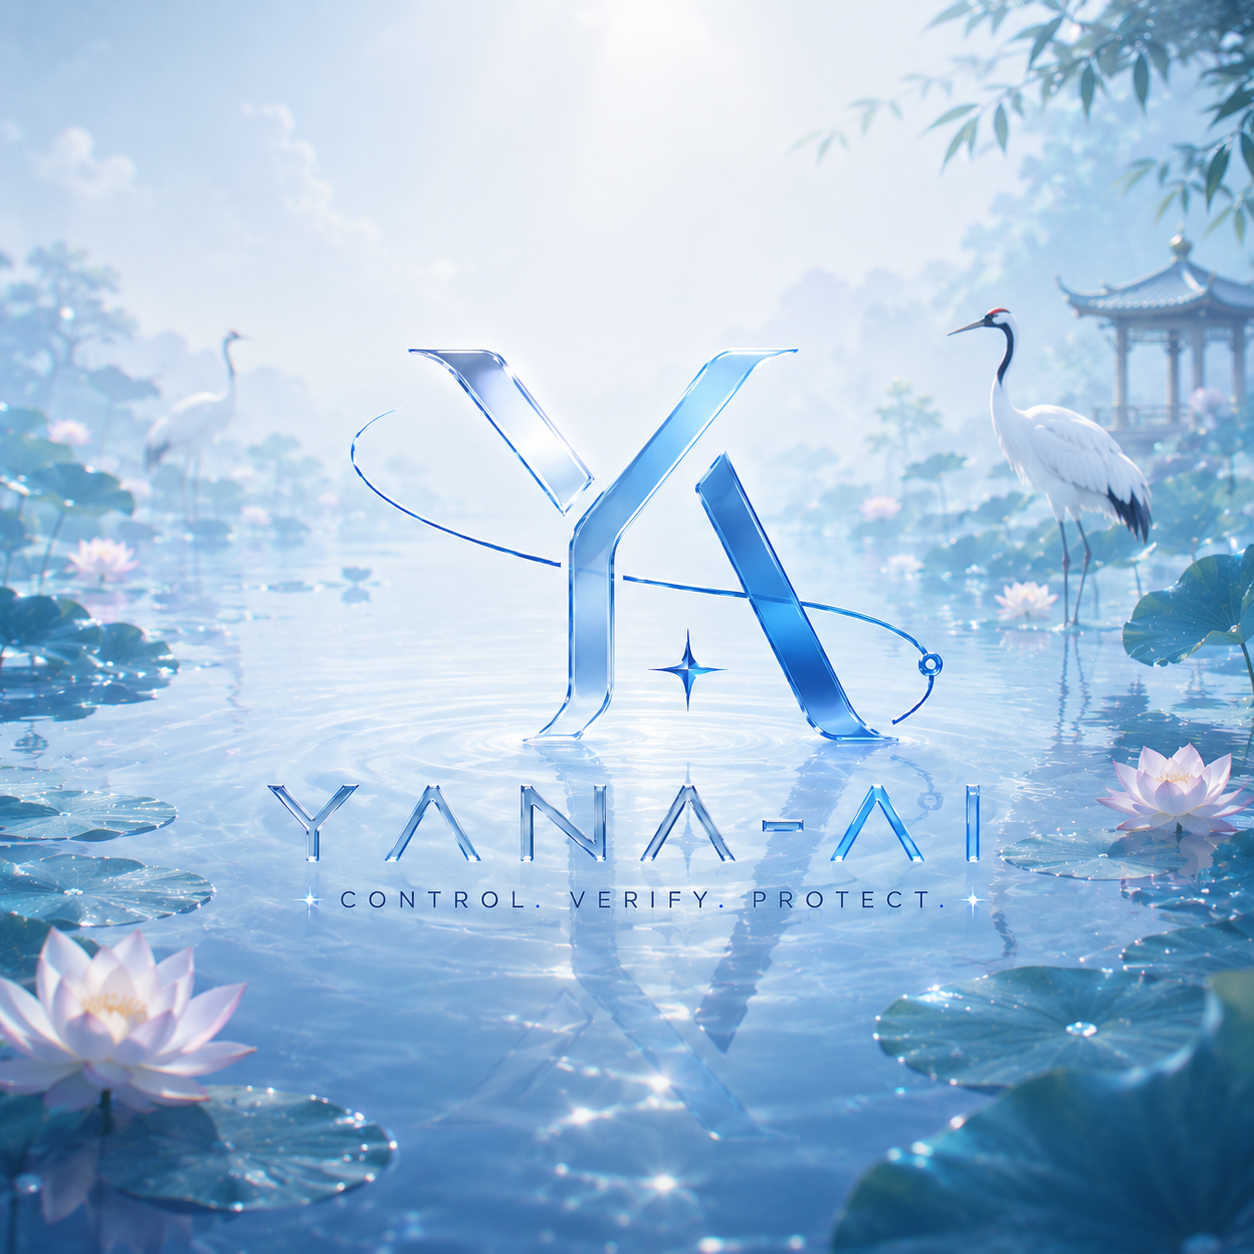
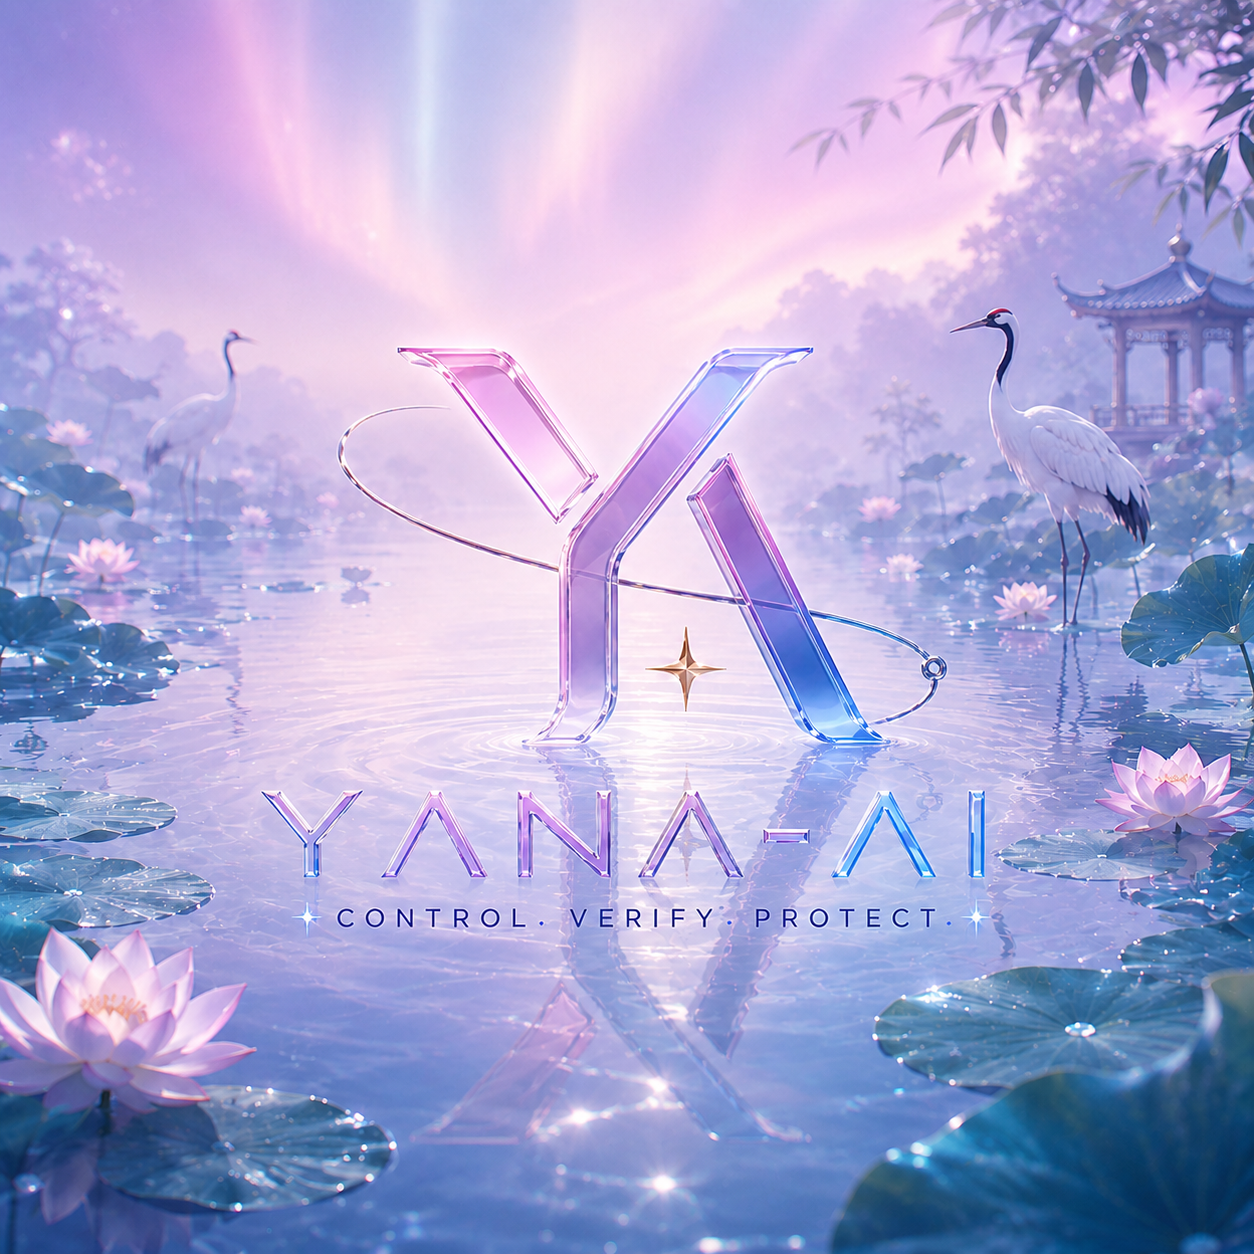
feat(profile): align Yana story and visual identity
Reframe the profile around Vũ Văn Tâm's verified YAMTAM-to-Yana lineage, clarify his human-directed AI-assisted role, and harmonize the project key visual with the Rose Aurora liquid-glass system.\n\nImplementation: Codex\n\nCo-Authored-By: Codex <noreply@openai.com>

diff --git a/README.md b/README.md
@@ -19,21 +19,46 @@
 
 ---
 
-## Xin chào — I’m Vũ Văn Tâm
+## The human behind Yana AI
 
-I am a Vietnamese developer based in South Korea and the person behind **Yana AI**.
+I’m **Vũ Văn Tâm**, a Vietnamese developer based in South Korea. I began building the system that became Yana AI when I was 17.
 
-I started this system as a collection of files and personal automation rules under the name **YAMTAM**. It grew into a cross-platform AI runtime, governance layer, terminal workspace, desktop application, memory system, and operating plane for AI agents. I design and maintain that system in public.
+Yana did not begin as a startup pitch or a polished application. It began as files on my own computer: Claude Code configurations, safety rules, prompts, hooks, and automation experiments that I used to make AI-assisted development more reliable. That early system was called **YAMTAM ENGINE**.
 
-My role in Yana AI is not limited to writing code:
+As I used it, the problem became larger than configuration. Different models and coding agents could write code, but they did not share one runtime, one capability boundary, one memory model, or one definition of when a human must take control. The files became a scaffold; the scaffold became a runtime; the runtime became Yana AI.
 
-| Product direction | System architecture | Engineering | Human governance |
-|---|---|---|---|
-| I decide what Yana should become and which problems it should refuse to solve. | I shape the boundaries between `yana-rt`, providers, adapters, capabilities, memory, Yana OS, and agent interfaces. | I build, review, test, release, investigate failures, and maintain the project across Rust, Python, Shell, and JavaScript. | I remain the final authority for destructive actions, releases, security trade-offs, and changes that affect user control. |
+| At a glance | |
+|---|---|
+| **Background** | Vietnamese builder living in South Korea |
+| **Project** | Creator and primary maintainer of [Yana AI](https://github.com/yanacuti1121/Yana-AI) |
+| **Role** | Product direction, system architecture, implementation, operations, release decisions, and final human governance |
+| **Core focus** | Native runtimes, local AI, agent safety, automation, memory, orchestration, and cross-platform systems |
+| **Working model** | Human-directed, AI-assisted, evidence-driven engineering |
 
-I work with Claude, Codex, Gemini, local models, and specialist agents as engineering collaborators. They help implement, review, test, and challenge decisions; they do not replace project ownership or human responsibility. AI-authored work is credited in Git history whenever possible.
+I work with Claude, Codex, Gemini, local models, and specialist agents as engineering collaborators. They help implement, review, test, and challenge decisions. I do not hide that collaboration, and I do not transfer responsibility to it: authorship is credited where possible, while architecture, risk acceptance, release authority, and the project’s direction remain human decisions.
 
 > **My job is to make AI more capable without quietly making the human less in control.**
+
+---
+
+## From YAMTAM to Yana AI
+
+The project has two histories: the code existed locally before this GitHub repository, and the public Git history begins later. I keep that distinction visible instead of turning uncertain dates into marketing facts.
+
+| Date | Milestone | Evidence |
+|---|---|---|
+| **05 May 2026** | The name **YAMTAM ENGINE** reportedly appeared on an earlier local ZIP artifact. | Recorded as my account of the project’s genesis; the original artifact has not yet been independently re-verified. See the [lineage record](https://github.com/yanacuti1121/Yana-AI/blob/main/docs/history/LINEAGE.md). |
+| **16 May 2026** | The earliest independently verified embedded Git commit, `scaffold baseline`, appears inside a preserved YAMTAM scaffold ZIP. | Verified from the archive’s embedded `.git` history and checksum, documented in the [lineage record](https://github.com/yanacuti1121/Yana-AI/blob/main/docs/history/LINEAGE.md). |
+| **17 May 2026** | The surviving public repository history begins. YAMTAM runtime assets, Truth Gate, drift checking, memory, scope protection, Action Gate, and release tooling start entering the repository. | Verified directly from the [public repository history](https://github.com/yanacuti1121/Yana-AI/commits/main/). |
+| **Today** | Yana is a local-first Rust runtime, project governance layer, terminal workspace, desktop app, adapter system, memory and evidence stack, Yana OS foundation, and open-source engineering project. | Implementations, tests, releases, architecture reports, and known limitations remain public in the main repository. |
+
+The reported lineage is:
+
+```text
+Claude Code configurations → GitNexus experiments → YAMTAM ENGINE → Yana AI
+```
+
+This history matters because Yana was not invented all at once. It grew from repeated failures, real CI breakage, unsafe automation, duplicated runtimes, stale documentation, packaging mistakes, and the need to distinguish “a file exists” from “a capability is genuinely wired and usable.”
 
 ---
 
@@ -44,7 +69,7 @@ I work with Claude, Codex, Gemini, local models, and specialist agents as engine
 <p align="center"><em>Build with AI. Govern what it builds.</em></p>
 
 <p align="center">
-  <img src="assets/yana-ai-key-visual.png" alt="Yana AI — Control, Verify, Protect" width="640" />
+  <img src="assets/yana-ai-key-visual.png" alt="Yana AI — Control, Verify, Protect" width="680" />
 </p>
 
 Yana AI is a **local-first, cross-platform control and runtime system for AI**. It connects local models, cloud models, coding agents, project tools, memory, and automation to one native execution layer while keeping deterministic policy and human authority in the path.
